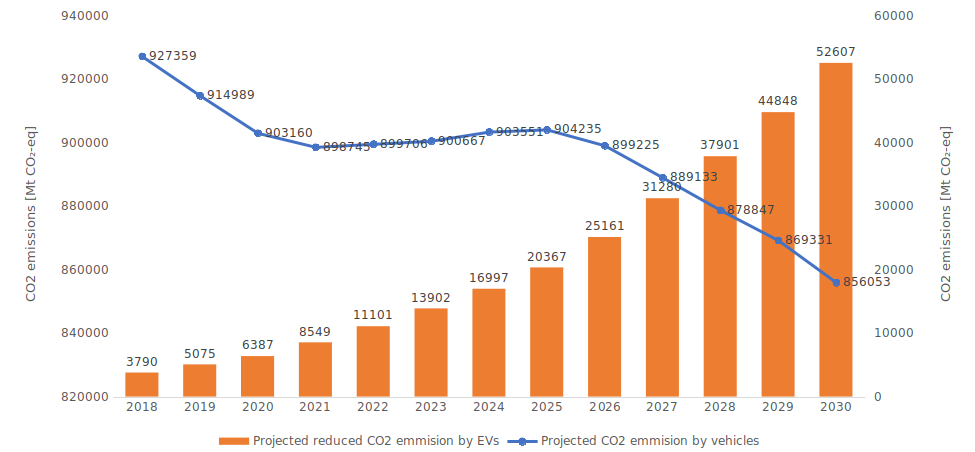
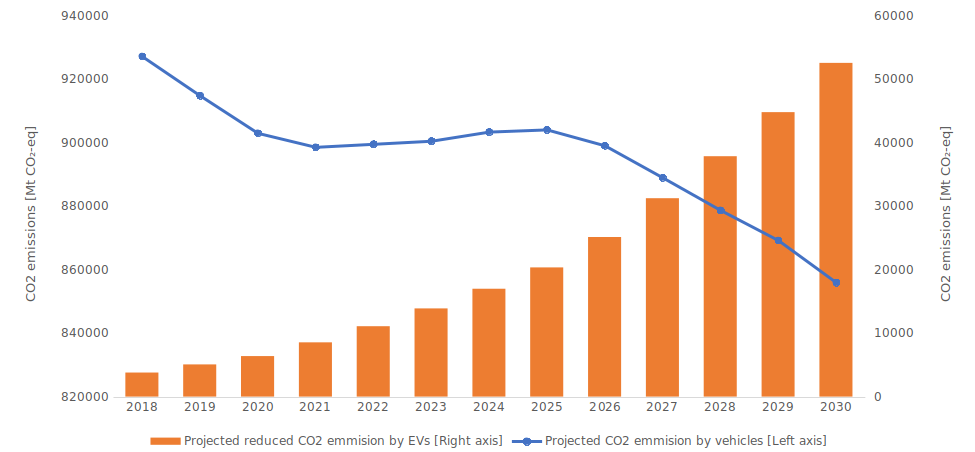
modify co2 prediction data label

diff --git a/env_benefits.html b/env_benefits.html
@@ -84,7 +84,7 @@
 
       <h4 class="w3-padding-32">Assuming the EV30@30 Scenario, this implies about 50 thousand Mt reduction in carbon dioxide emissions in 2030--the equivalent of preventing ZZZ acres of deforestation.</h4>
 
-      <p class="w3-text-grey"> According to the Global EV Outlook 2019, the EVs are going to contribute to reduce 6% of CO<sub>2</sub> emmision in transportation sectore. The Massachusetts vehicle census in 2014 shows that there were 259,256 households in Boston with with 0.0098 Mt CO<sub>2</sub>-eq per Day per Household. We estimated the amount of CO<sub>2</sub> emission from vehicles in Boston as 927,359 Mt CO<sub>2</sub> -eq. In this scenarion, the 6% of reduction with EVs' growth exceeds 50 thousand Mt CO₂-eq. </p>
+      <p class="w3-text-grey"> According to the Global EV Outlook 2019, the EVs are going to contribute to reduce 6% of CO<sub>2</sub> emmision in transportation sectore. The Massachusetts vehicle census in 2014 shows that there were 259,256 households in Boston with with 0.0098 Mt CO<sub>2</sub>-eq per Day per Household. We estimated the amount of CO<sub>2</sub> emission from vehicles in Boston as 927,359 Mt CO<sub>2</sub> -eq. In this scenario, the 6% of reduction with EVs' growth exceeds 50 thousand Mt CO₂-eq. </p>
 
    <div>
       <img src= "images/evs_co2_projection.png"></img></div>
